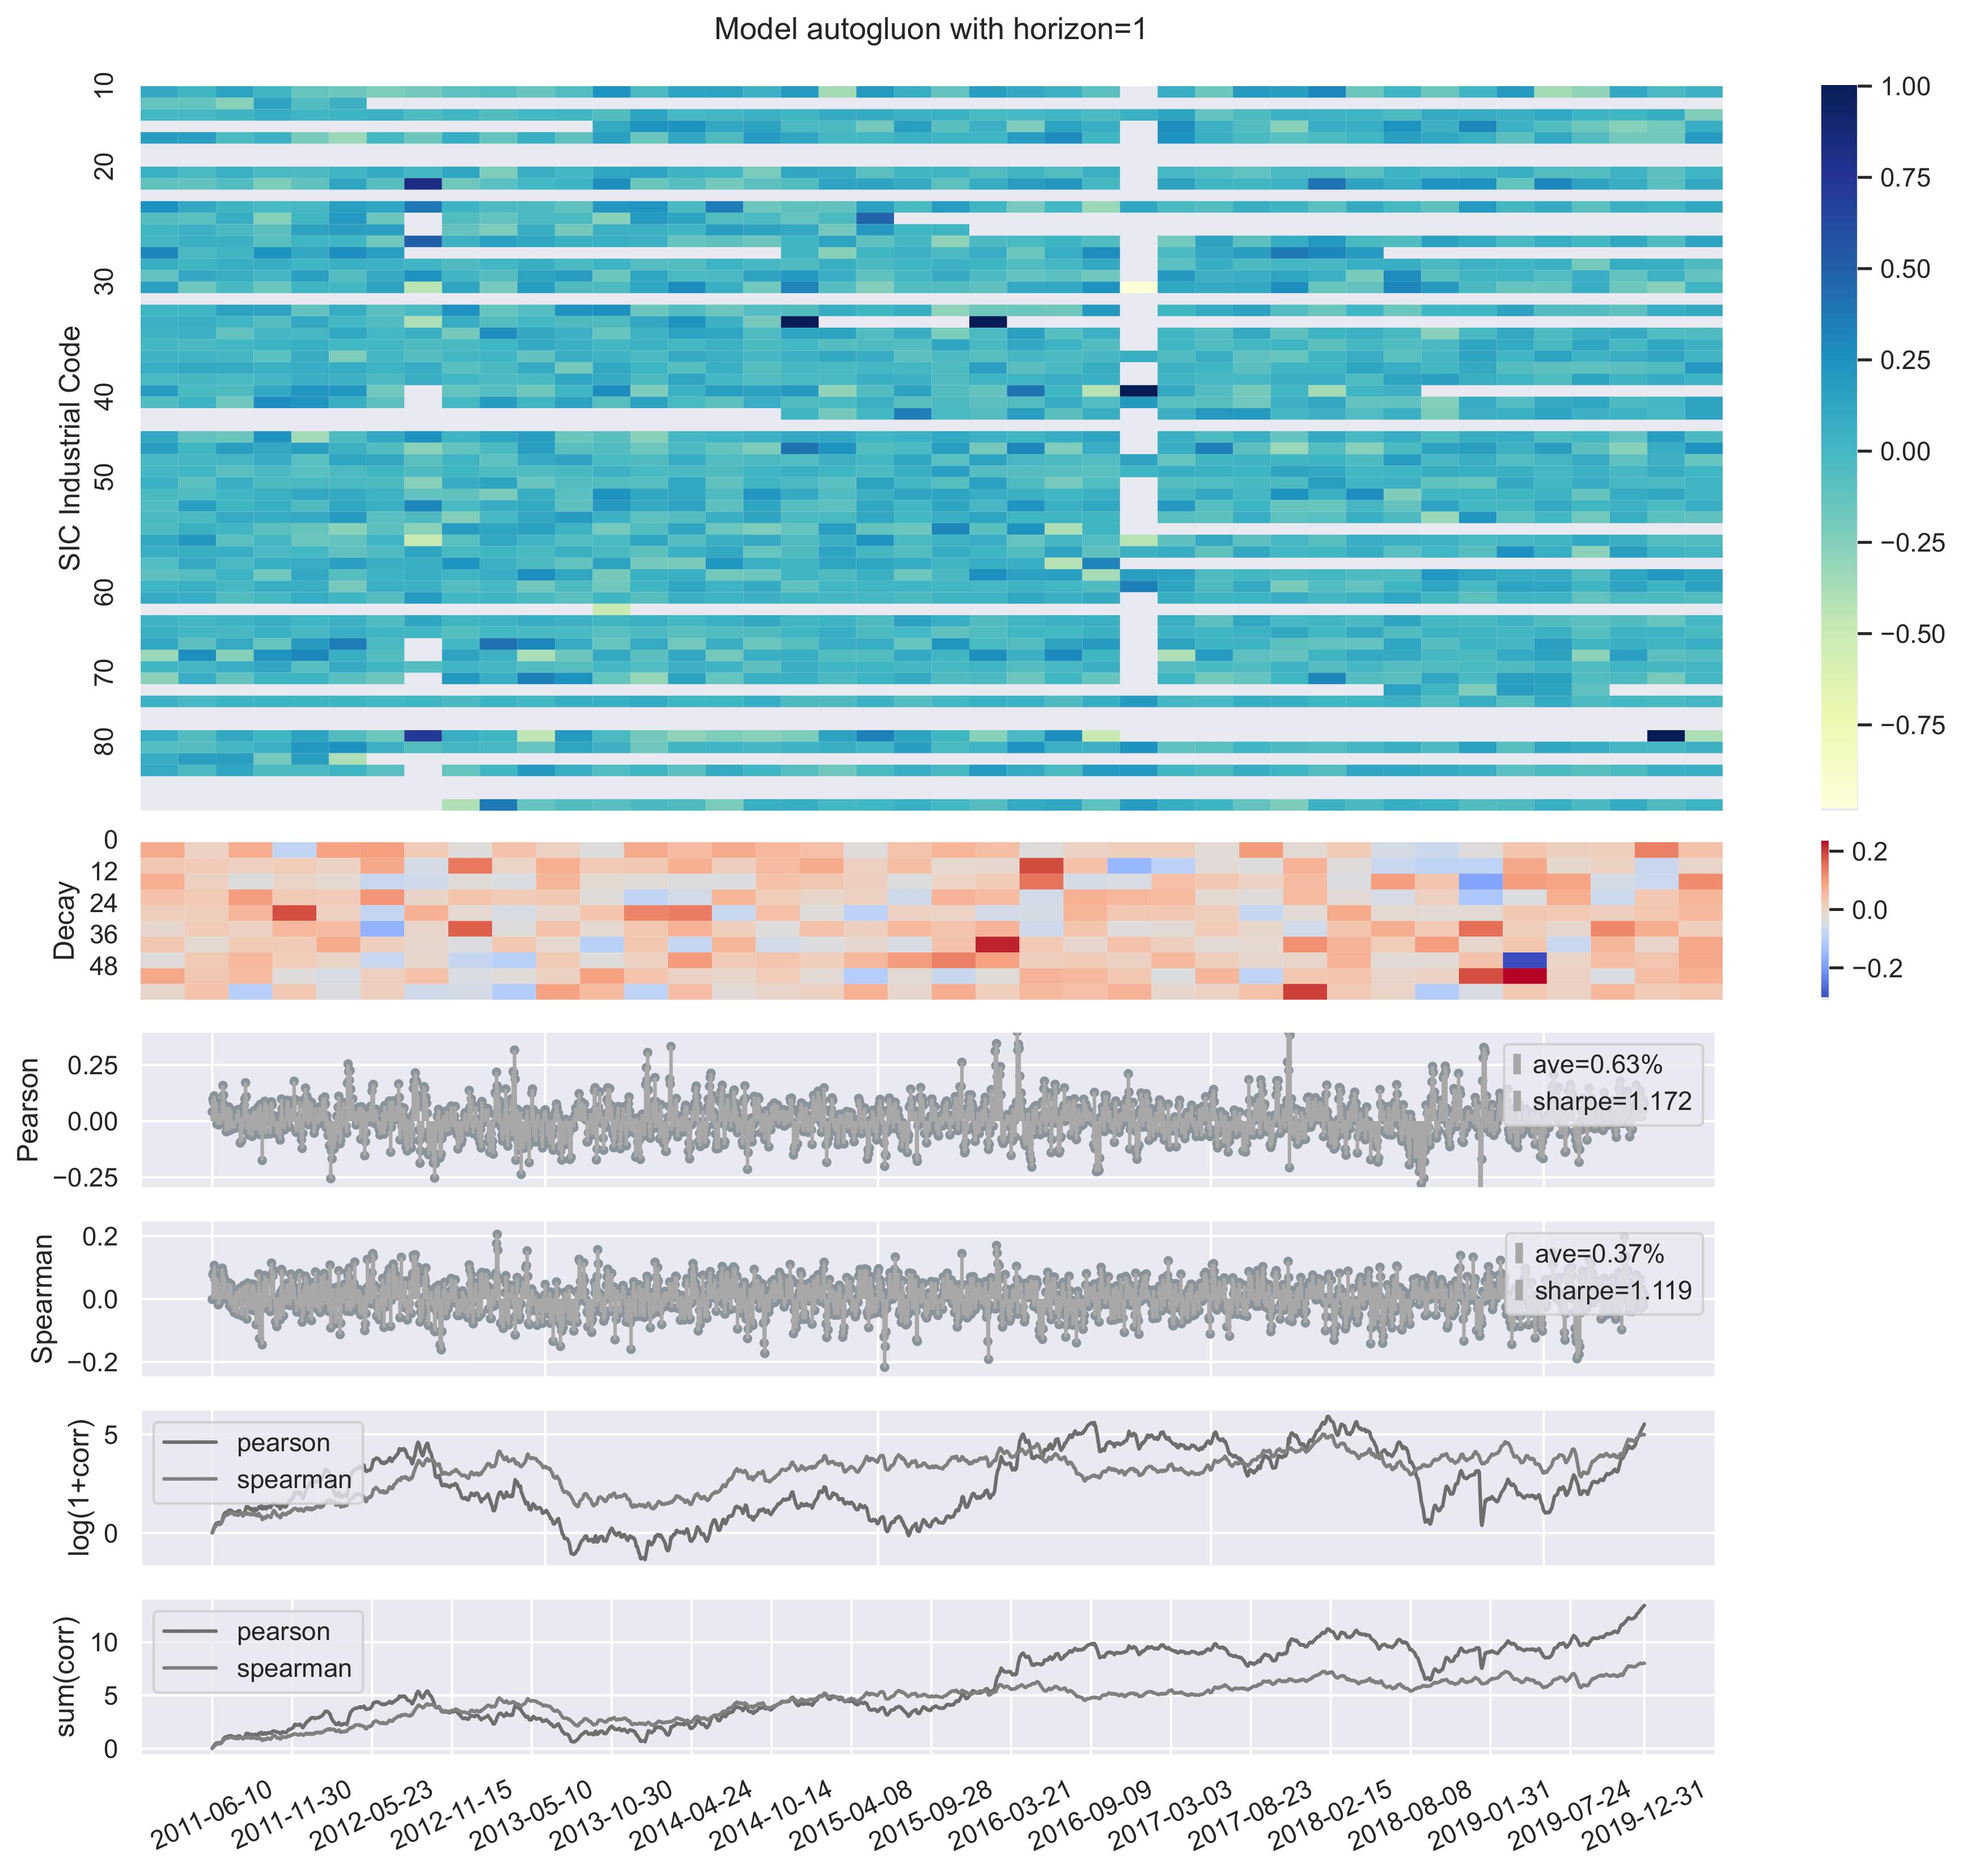
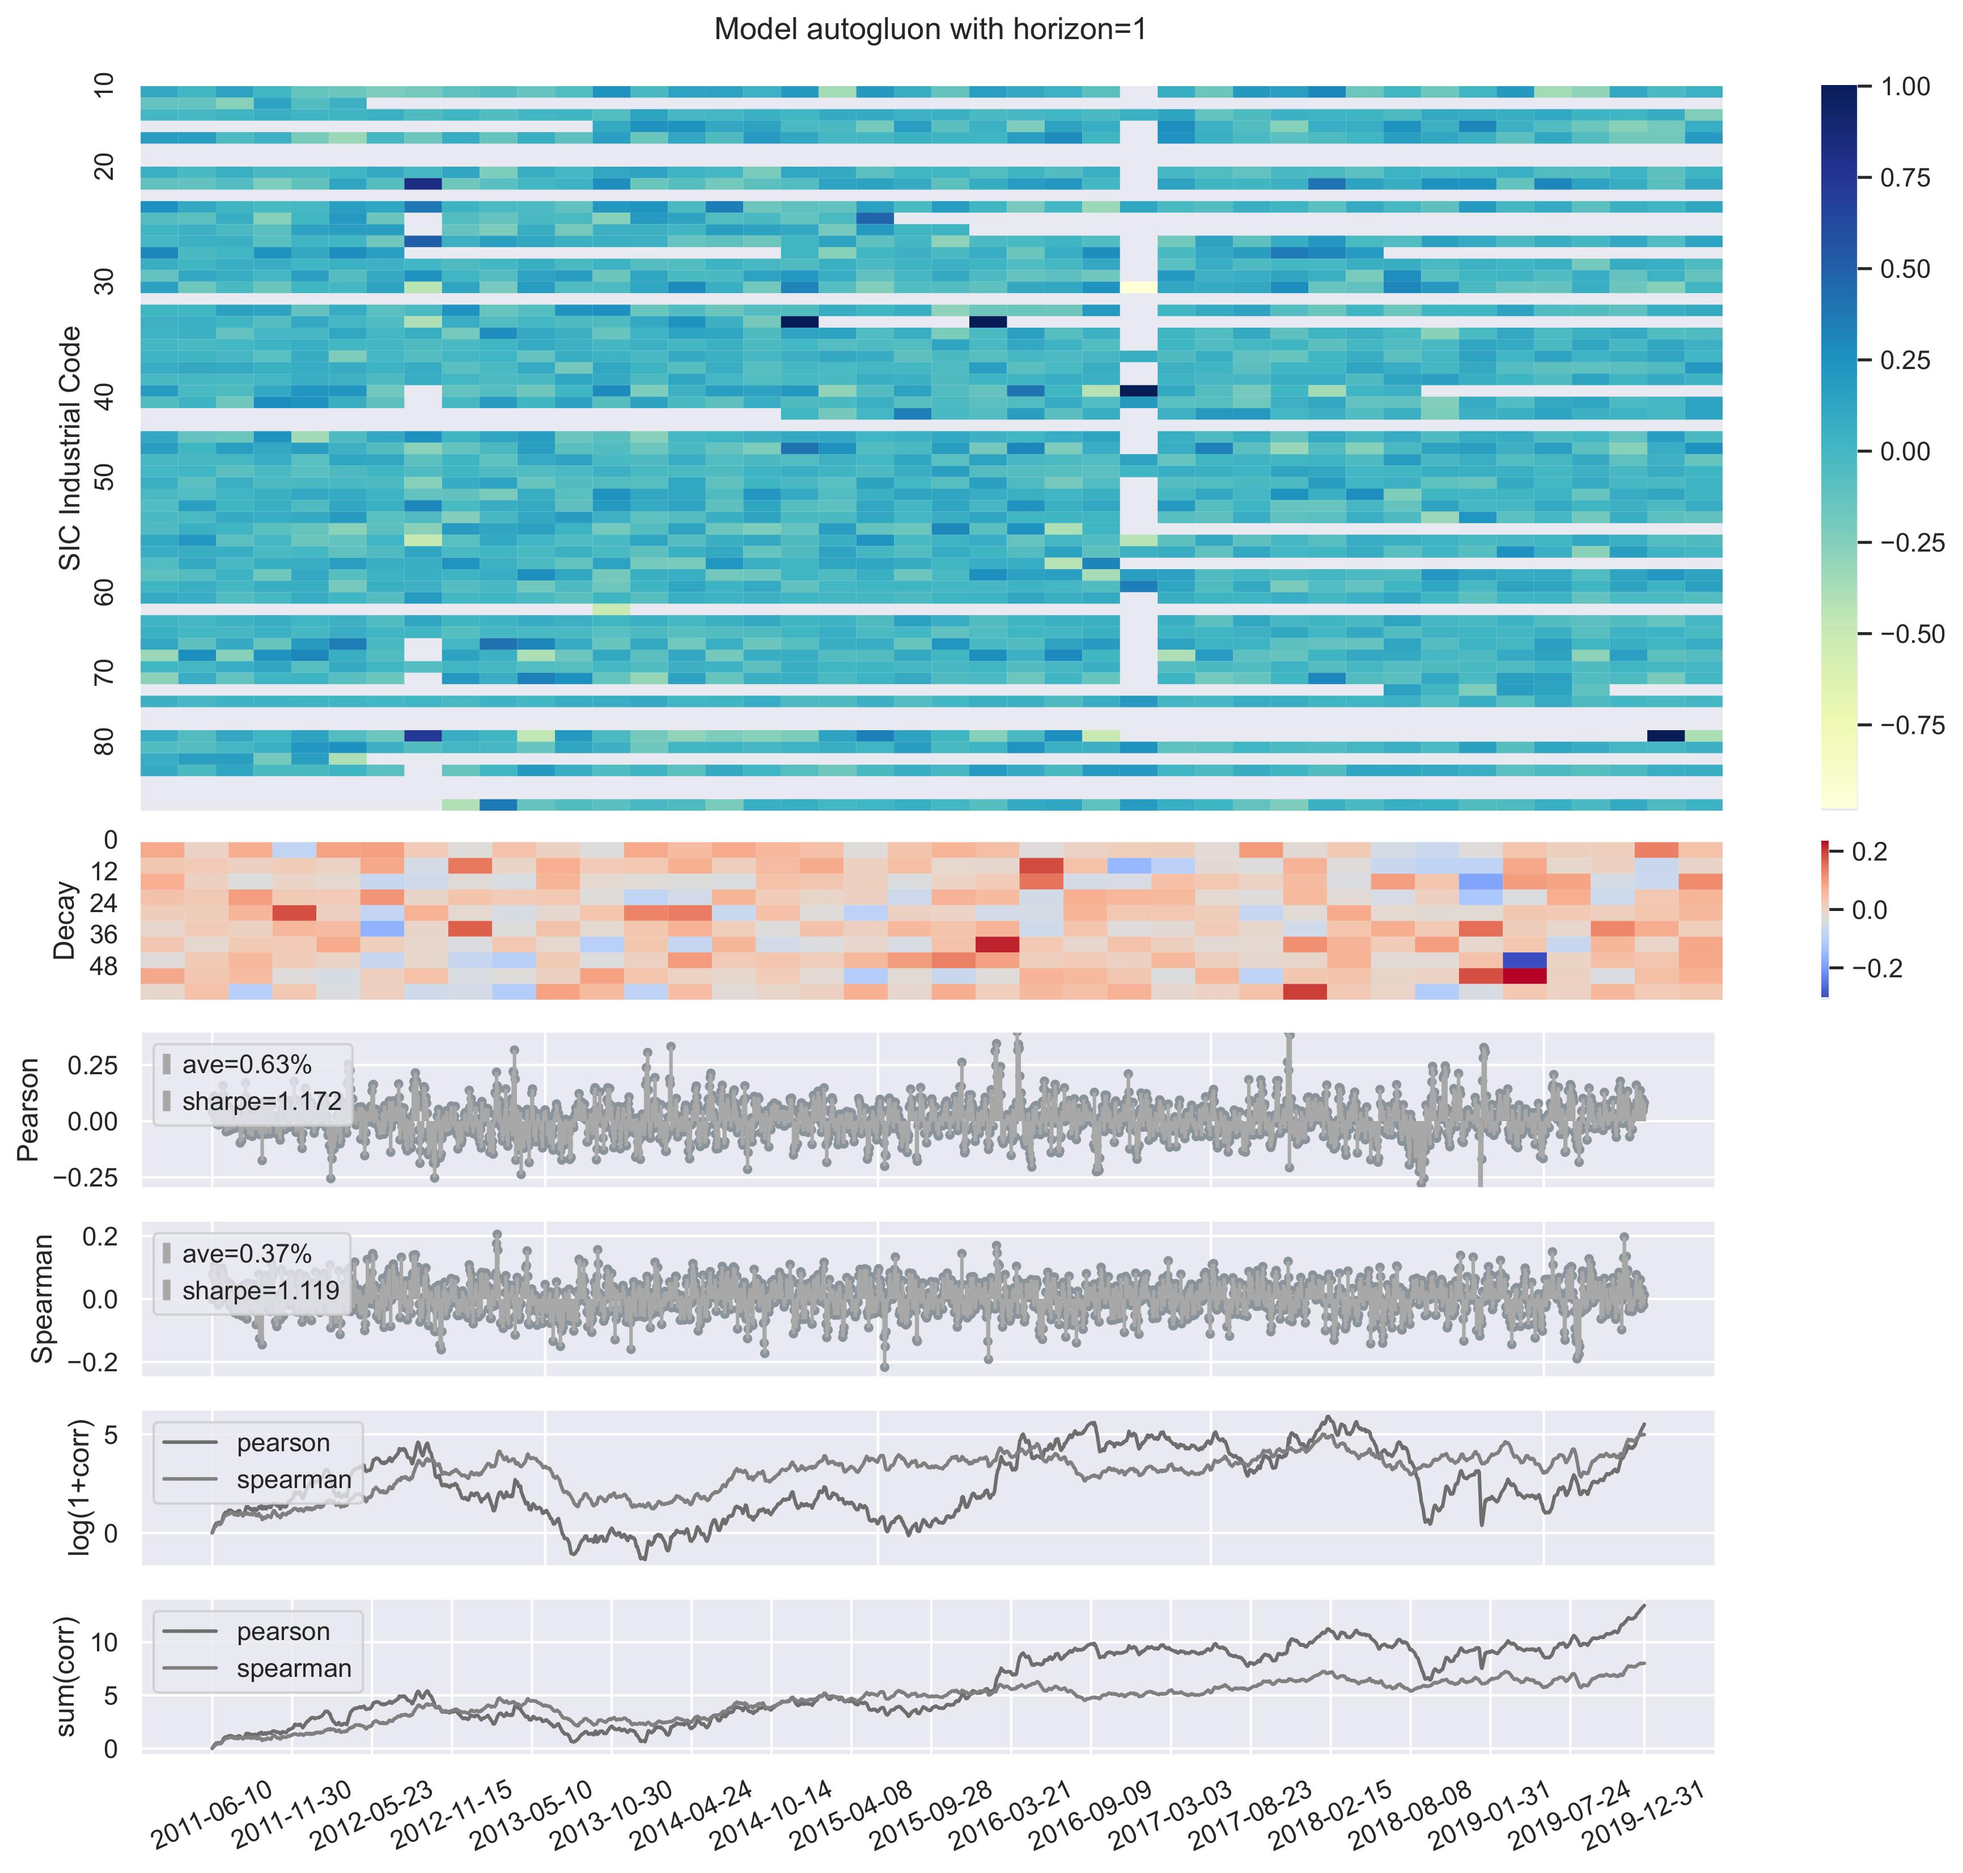
update

diff --git a/experiments/correlation.py b/experiments/correlation.py
@@ -114,7 +114,7 @@ def plot_correlation(model_name, horizon, corr_ind_df, decay_df, corr_df):
     ax1_legend_sharpe = mpatches.Patch(color="#A9A9A9", label=f"sharpe={pearson_sharpe:.3f}")
     ax1.stem(index, corr_df["pearson"].values, linefmt="#A9A9A9", markerfmt=" ", basefmt=" ")
     ax1.scatter(index, corr_df["pearson"].values, color="#899499", marker=".")
-    ax1.legend(handles=[ax1_legend_mean, ax1_legend_sharpe], loc="upper right", handlelength=0.2, handletextpad=0.5)
+    ax1.legend(handles=[ax1_legend_mean, ax1_legend_sharpe], loc="upper left", handlelength=0.2, handletextpad=0.5)
     ax1.set_xticklabels([])
     ax1.set_ylabel("Pearson")
     ax1.set_ylim([-0.30, 0.40])
@@ -126,7 +126,7 @@ def plot_correlation(model_name, horizon, corr_ind_df, decay_df, corr_df):
     ax2_legend_sharpe = mpatches.Patch(color="#A9A9A9", label=f"sharpe={spearman_sharpe:.3f}")
     ax2.stem(index, corr_df["spearman"].values, linefmt="#A9A9A9", markerfmt=" ", basefmt=" ")
     ax2.scatter(index, corr_df["spearman"].values, color="#899499", marker=".")
-    ax2.legend(handles=[ax2_legend_mean, ax2_legend_sharpe], loc="upper right", handlelength=0.2, handletextpad=0.5)
+    ax2.legend(handles=[ax2_legend_mean, ax2_legend_sharpe], loc="upper left", handlelength=0.2, handletextpad=0.5)
     ax2.set_xticklabels([])
     ax2.set_ylabel("Spearman")
     ax2.set_ylim([-0.25, 0.25])

diff --git a/global_settings.py b/global_settings.py
@@ -34,9 +34,8 @@ date0_max = "2022-06-14"
 # Crypto statistical arbitrage
 # Ultra high frequency
 
+# Increase training window
 # Reduce validation window
 # Sample from training window
 # Transformer model
 # Resolve GPU issue
-
-# Increase training window
